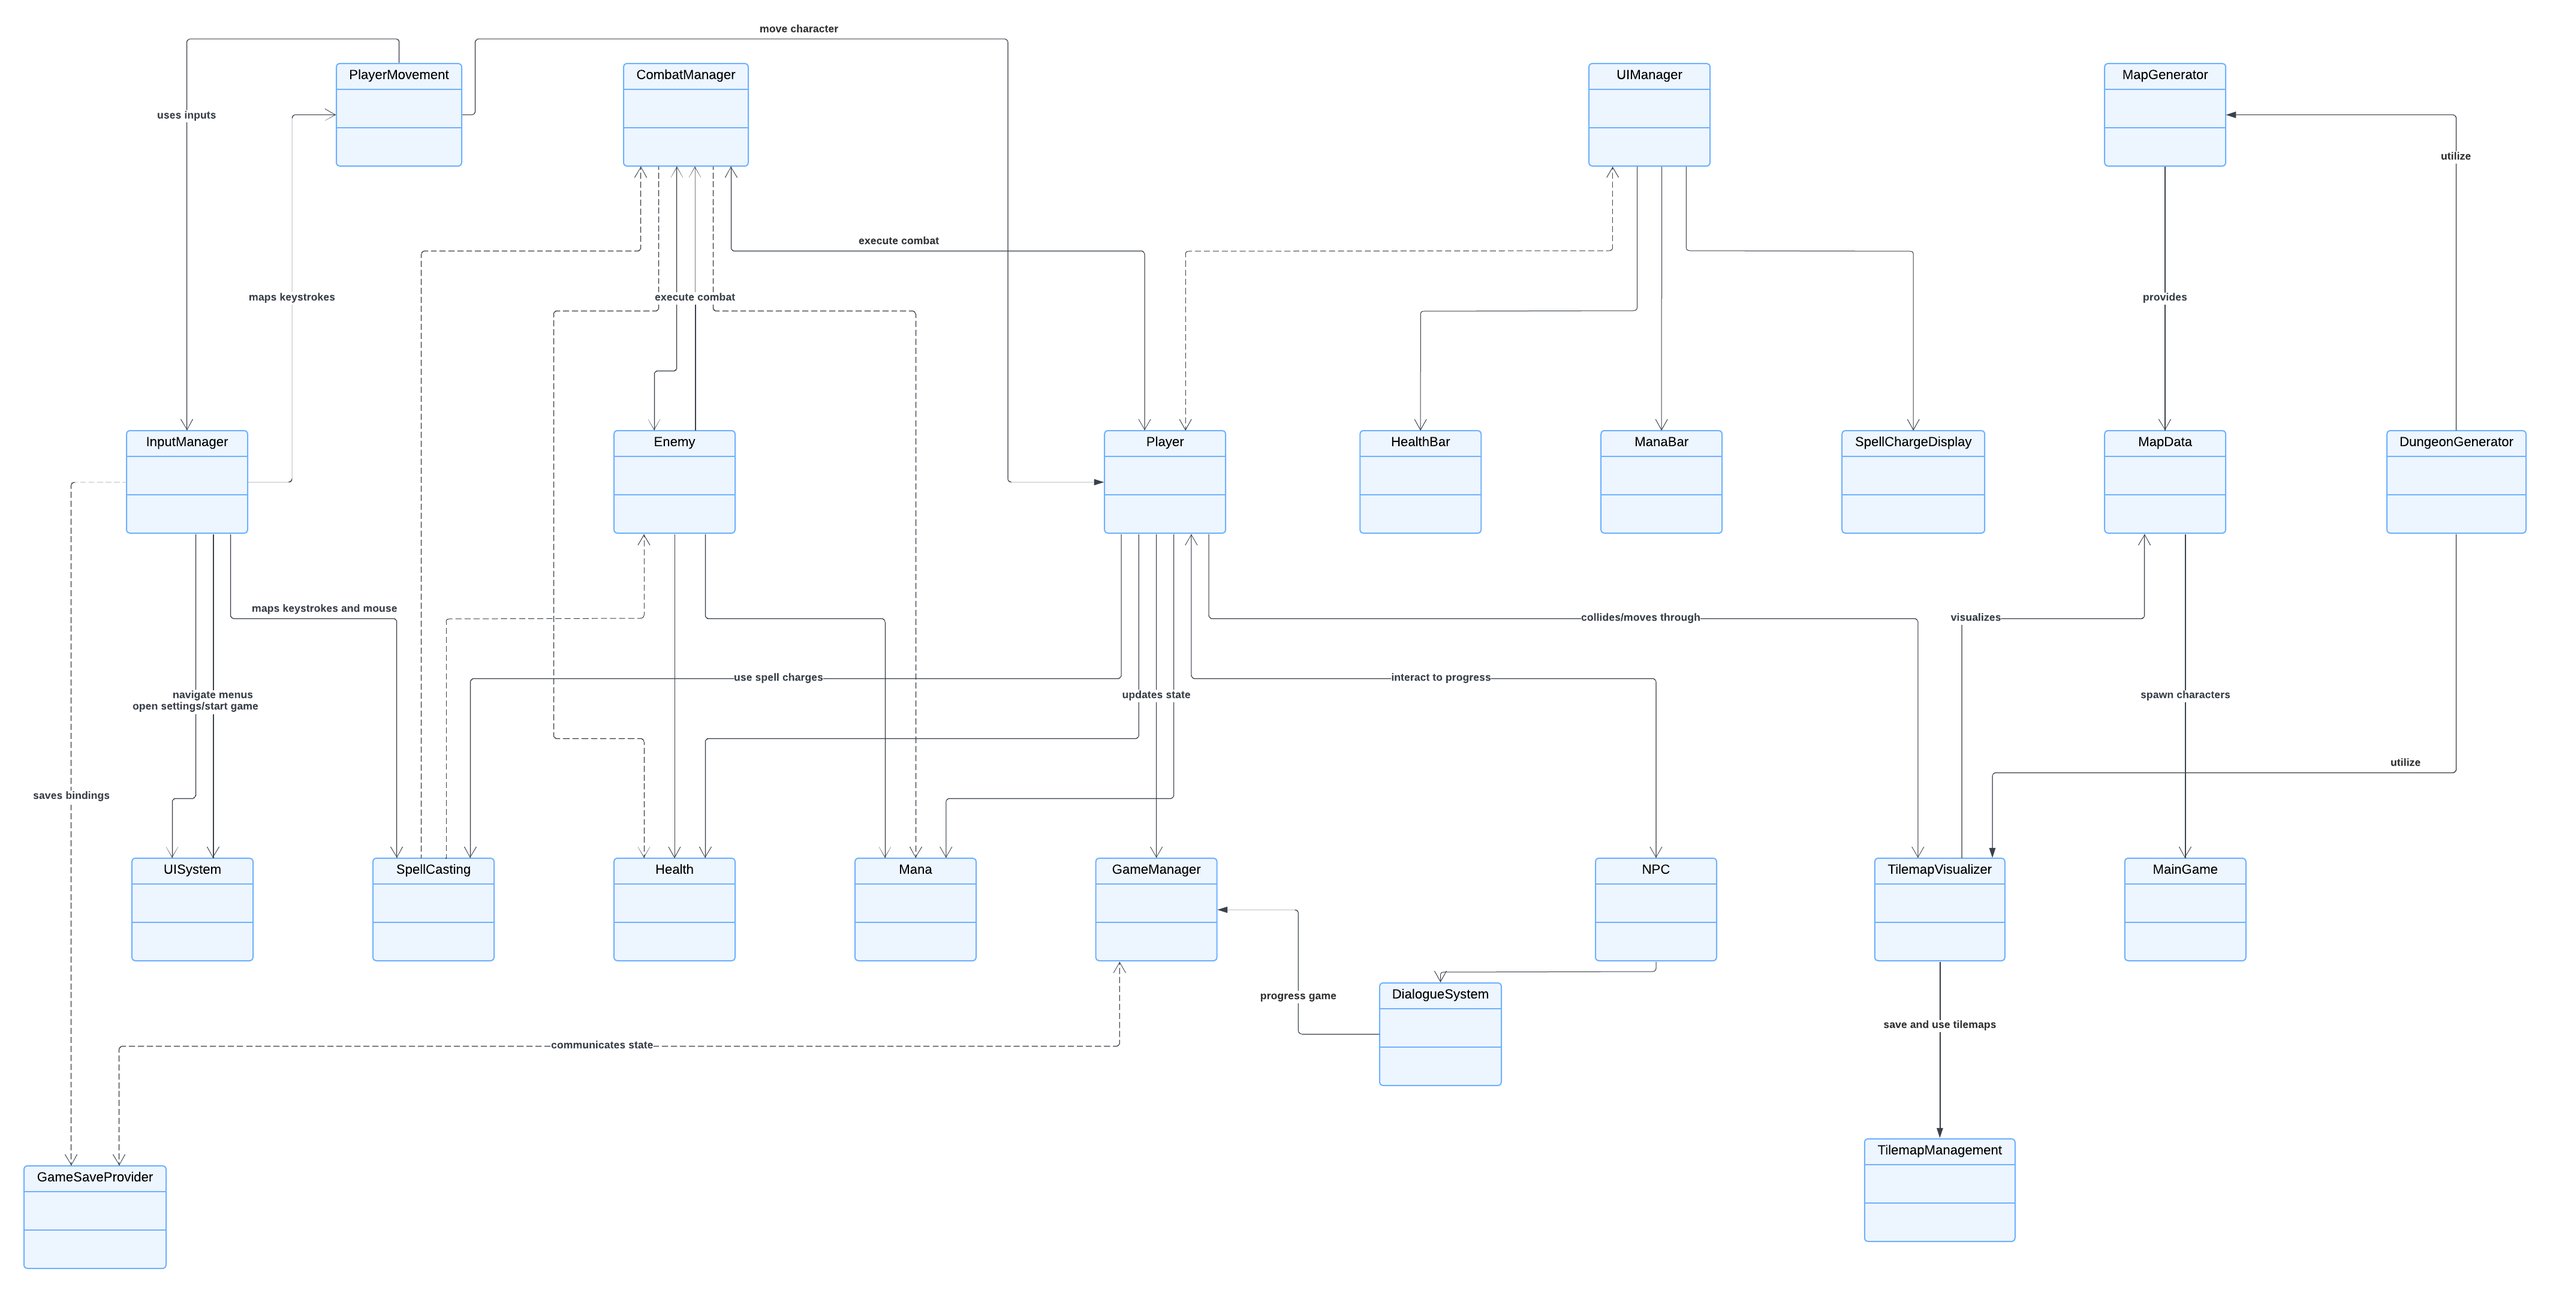
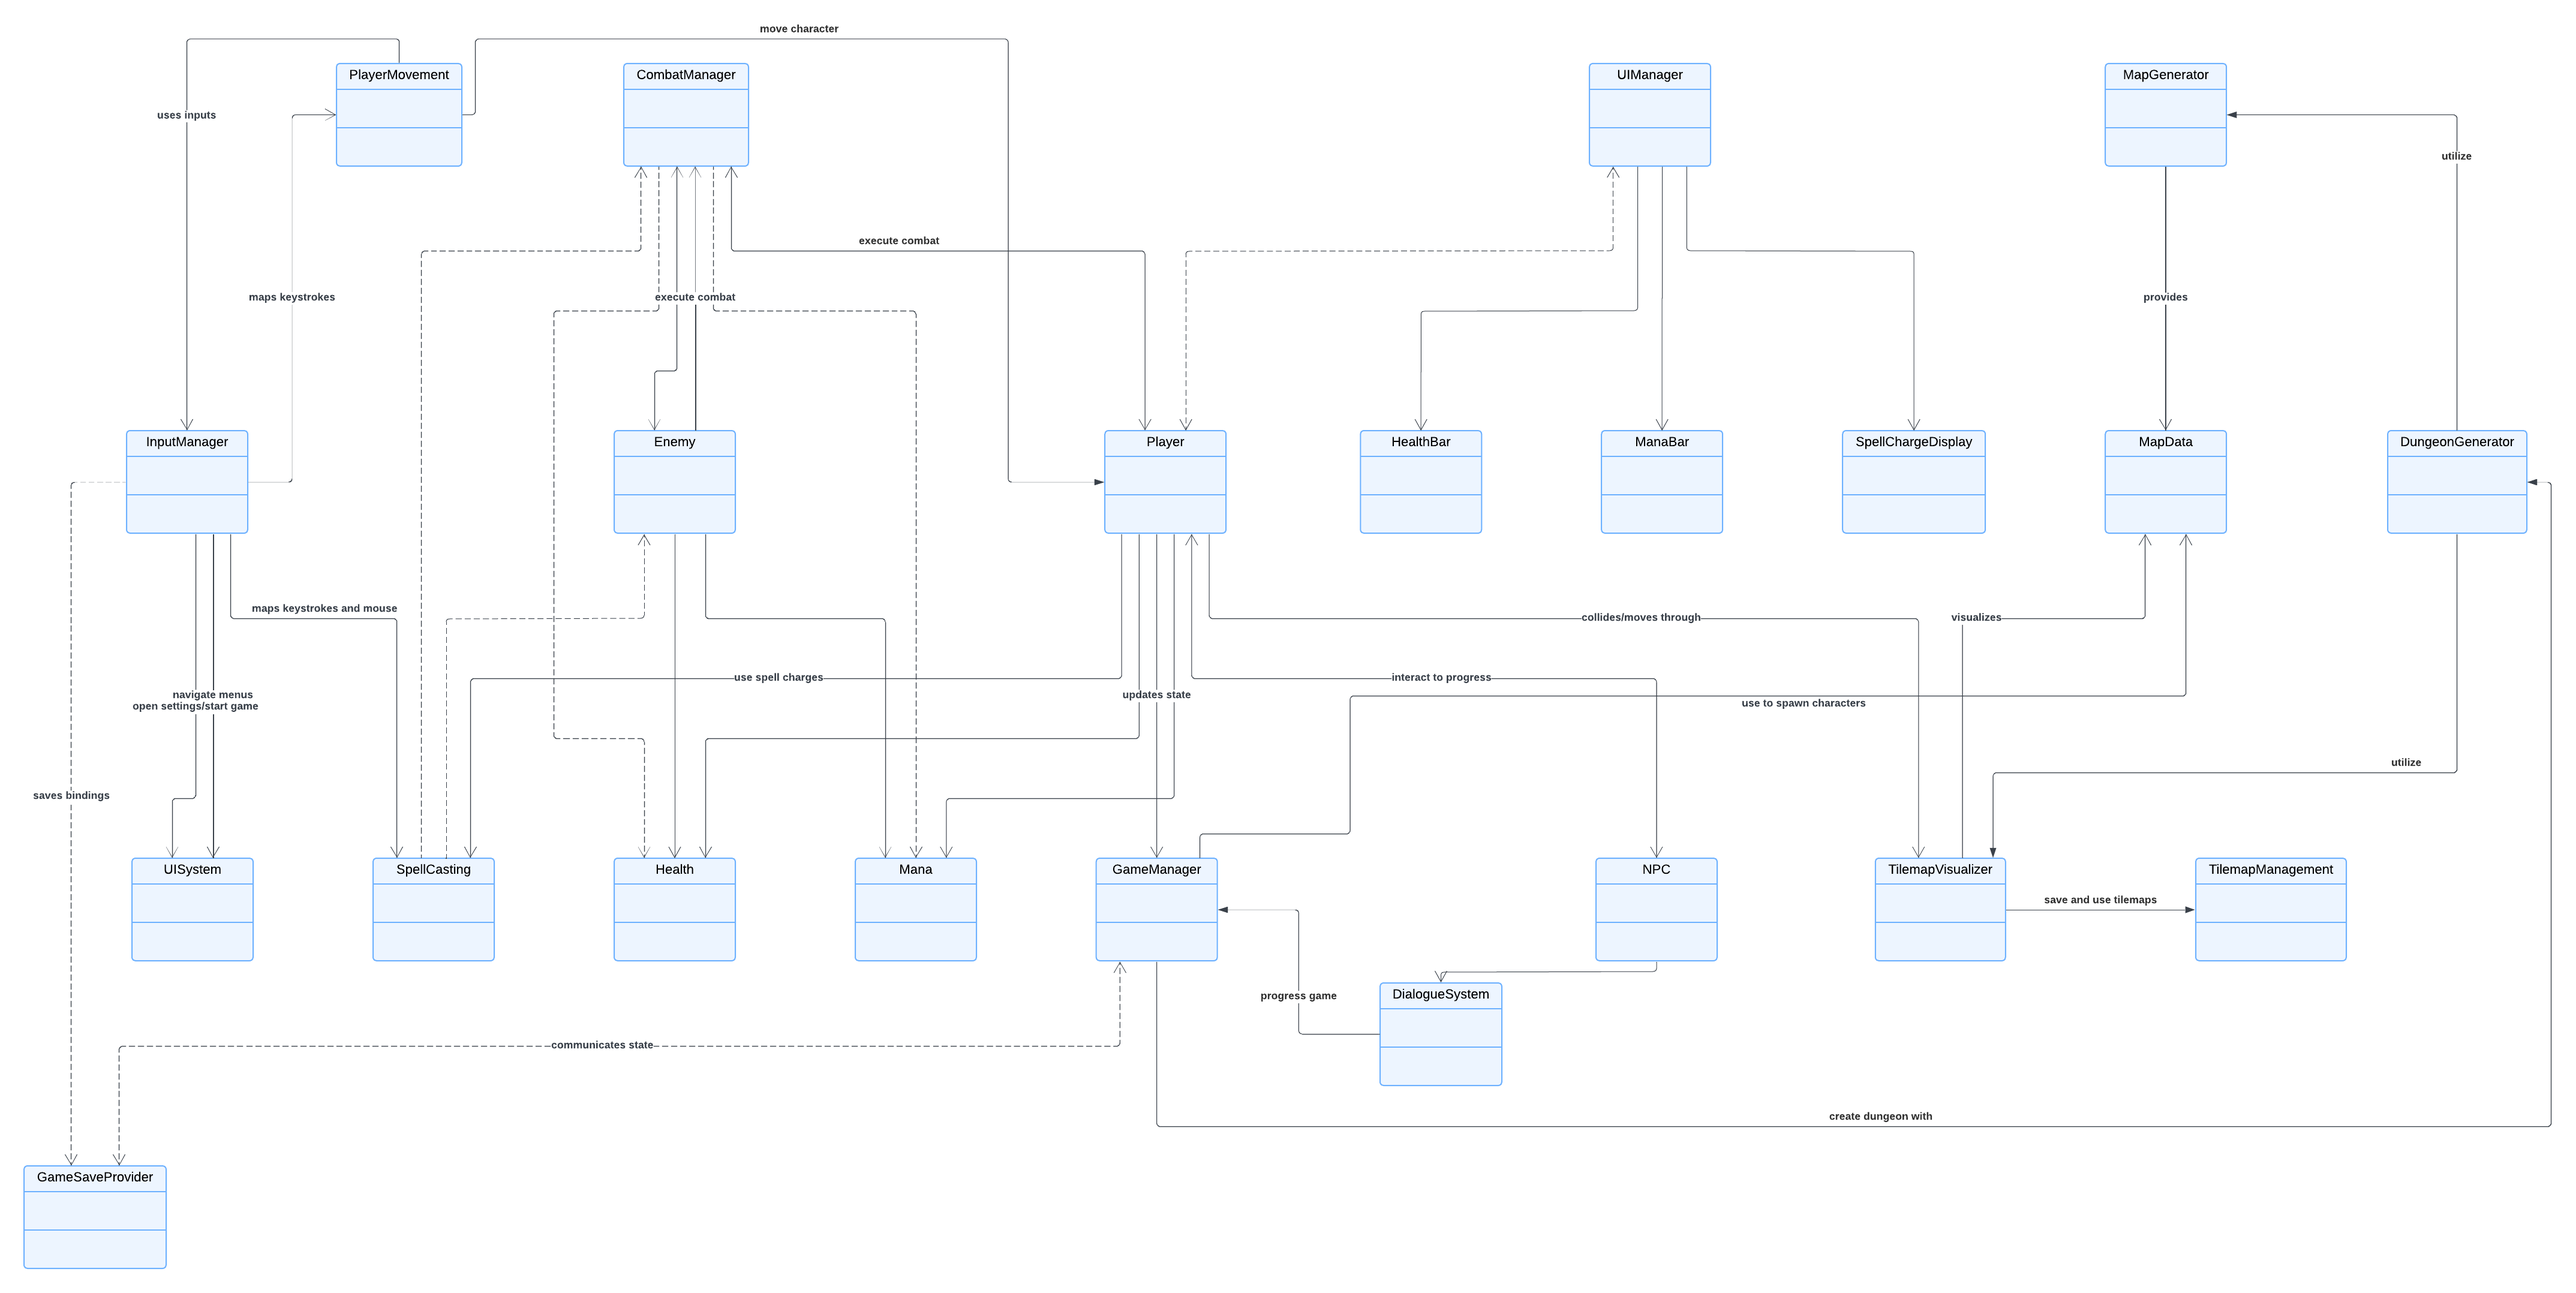
Update architecture document: Add three sequence diagrams; Improve class diagram

diff --git a/Development-Strategy/architecture-document.html b/Development-Strategy/architecture-document.html
@@ -173,9 +173,9 @@
 </li>
 <li><a href="#5-sequences">5. Sequences</a>
 <ul>
-<li><a href="#51-todo-gameplay-loop">5.1 TODO: Gameplay Loop</a></li>
-<li><a href="#52-todo-combat-sequence">5.2 TODO: Combat Sequence</a></li>
-<li><a href="#53-todo-dialogue-interaction">5.3 TODO: Dialogue Interaction</a></li>
+<li><a href="#51-player-movement">5.1 Player Movement</a></li>
+<li><a href="#52-combat-sequence">5.2 Combat Sequence</a></li>
+<li><a href="#53-dungeon-generation">5.3 Dungeon Generation</a></li>
 </ul>
 </li>
 <li><a href="#6-future-expansions">6. Future Expansions</a></li>
@@ -357,10 +357,16 @@ The most important aspects of our object-oriented architecture include:</p>
 <h3 id="41-class-diagram">4.1 Class Diagram</h3>
 <p><img src="file:///d:\Uni\TheElemelons\Development-Strategy\class-diagram.png" alt="Class Diagram"></p>
 <h2 id="5-sequences">5. Sequences</h2>
-<h3 id="51-todo-gameplay-loop">5.1 TODO: Gameplay Loop</h3>
-<h3 id="52-todo-combat-sequence">5.2 TODO: Combat Sequence</h3>
-<h3 id="53-todo-dialogue-interaction">5.3 TODO: Dialogue Interaction</h3>
+<h3 id="51-player-movement">5.1 Player Movement</h3>
+<p><img src="file:///d:\Uni\TheElemelons\Development-Strategy\playermovement-sequence-diagram.png" alt="Player Movement Sequence"></p>
+<h3 id="52-combat-sequence">5.2 Combat Sequence</h3>
+<p><img src="file:///d:\Uni\TheElemelons\Development-Strategy\combat-sequence-diagram.png" alt="Combat Sequence"></p>
+<h3 id="53-dungeon-generation">5.3 Dungeon Generation</h3>
+<p><img src="file:///d:\Uni\TheElemelons\Development-Strategy\dungeon-generation-sequence-diagram.png" alt="Dungeon Generation Sequence"></p>
 <h2 id="6-future-expansions">6. Future Expansions</h2>
+<ul>
+<li>5.4 Dialogue Interaction Sequence and Dialog Requirements</li>
+</ul>
 <h2 id="7-appendix">7. Appendix</h2>
 
             

diff --git a/Development-Strategy/architecture-document.md b/Development-Strategy/architecture-document.md
@@ -19,9 +19,9 @@
   - [4. Class Relationship and Data Flow](#4-class-relationship-and-data-flow)
     - [4.1 Class Diagram](#41-class-diagram)
   - [5. Sequences](#5-sequences)
-    - [5.1 TODO: Gameplay Loop](#51-todo-gameplay-loop)
-    - [5.2 TODO: Combat Sequence](#52-todo-combat-sequence)
-    - [5.3 TODO: Dialogue Interaction](#53-todo-dialogue-interaction)
+    - [5.1 Player Movement](#51-player-movement)
+    - [5.2 Combat Sequence](#52-combat-sequence)
+    - [5.3 Dungeon Generation](#53-dungeon-generation)
   - [6. Future Expansions](#6-future-expansions)
   - [7. Appendix](#7-appendix)
 
@@ -156,12 +156,20 @@ The most important aspects of our object-oriented architecture include:
 
 ## 5. Sequences
 
-### 5.1 TODO: Gameplay Loop
+### 5.1 Player Movement
 
-### 5.2 TODO: Combat Sequence
+![Player Movement Sequence](playermovement-sequence-diagram.png)
 
-### 5.3 TODO: Dialogue Interaction
+### 5.2 Combat Sequence
+
+![Combat Sequence](combat-sequence-diagram.png)
+
+### 5.3 Dungeon Generation
+
+![Dungeon Generation Sequence](dungeon-generation-sequence-diagram.png)
 
 ## 6. Future Expansions
+
+- 5.4 Dialogue Interaction Sequence and Dialog Requirements
 
 ## 7. Appendix
